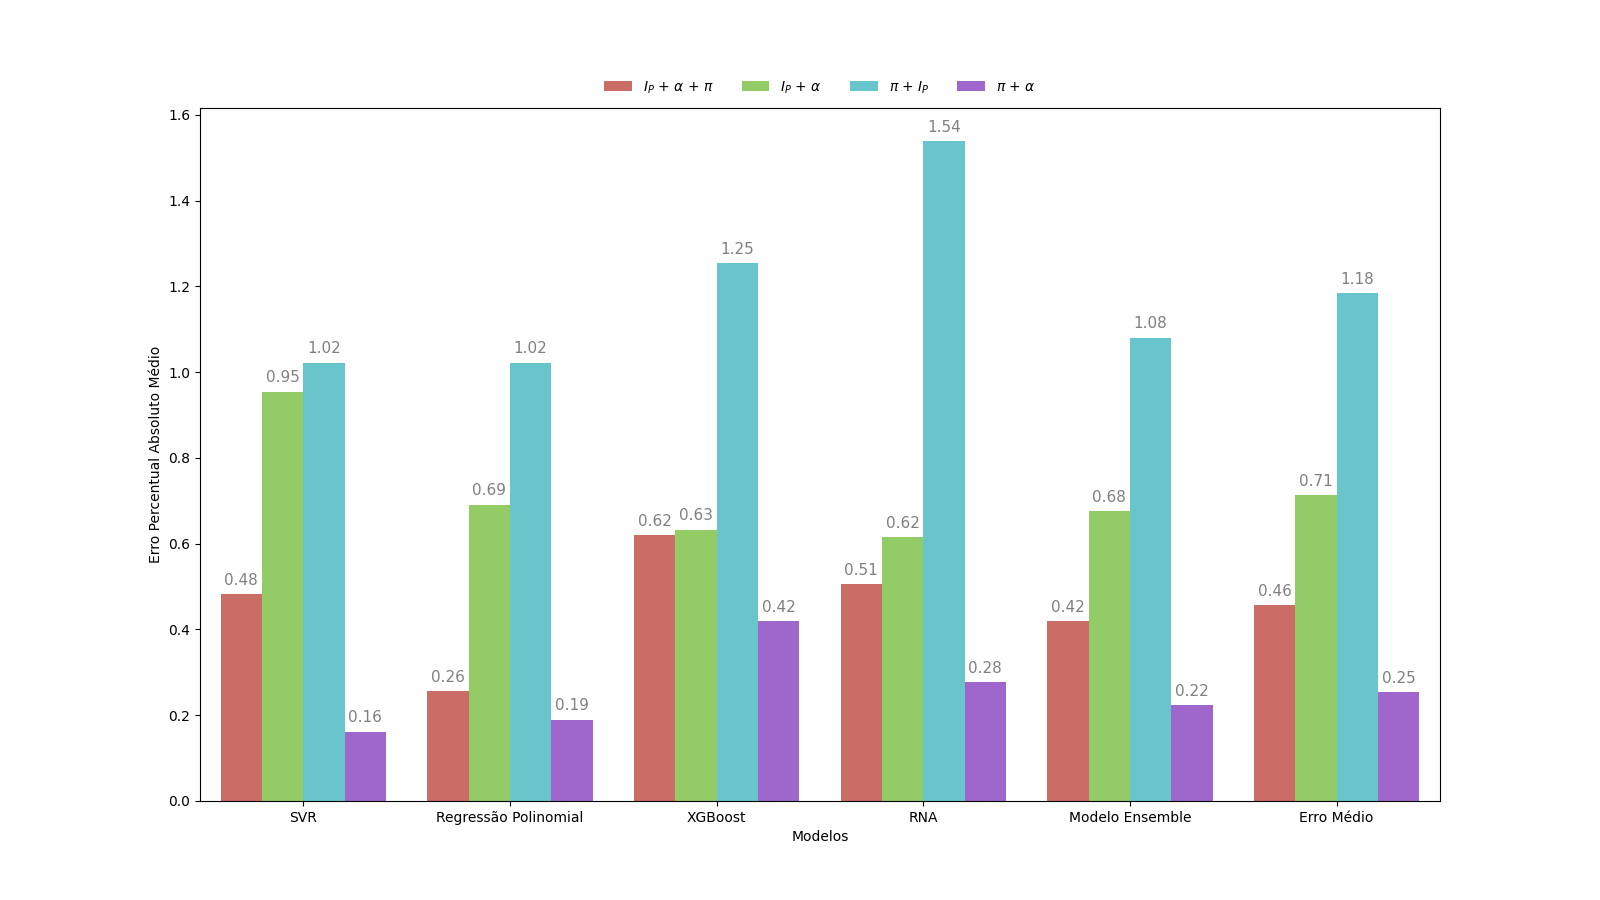
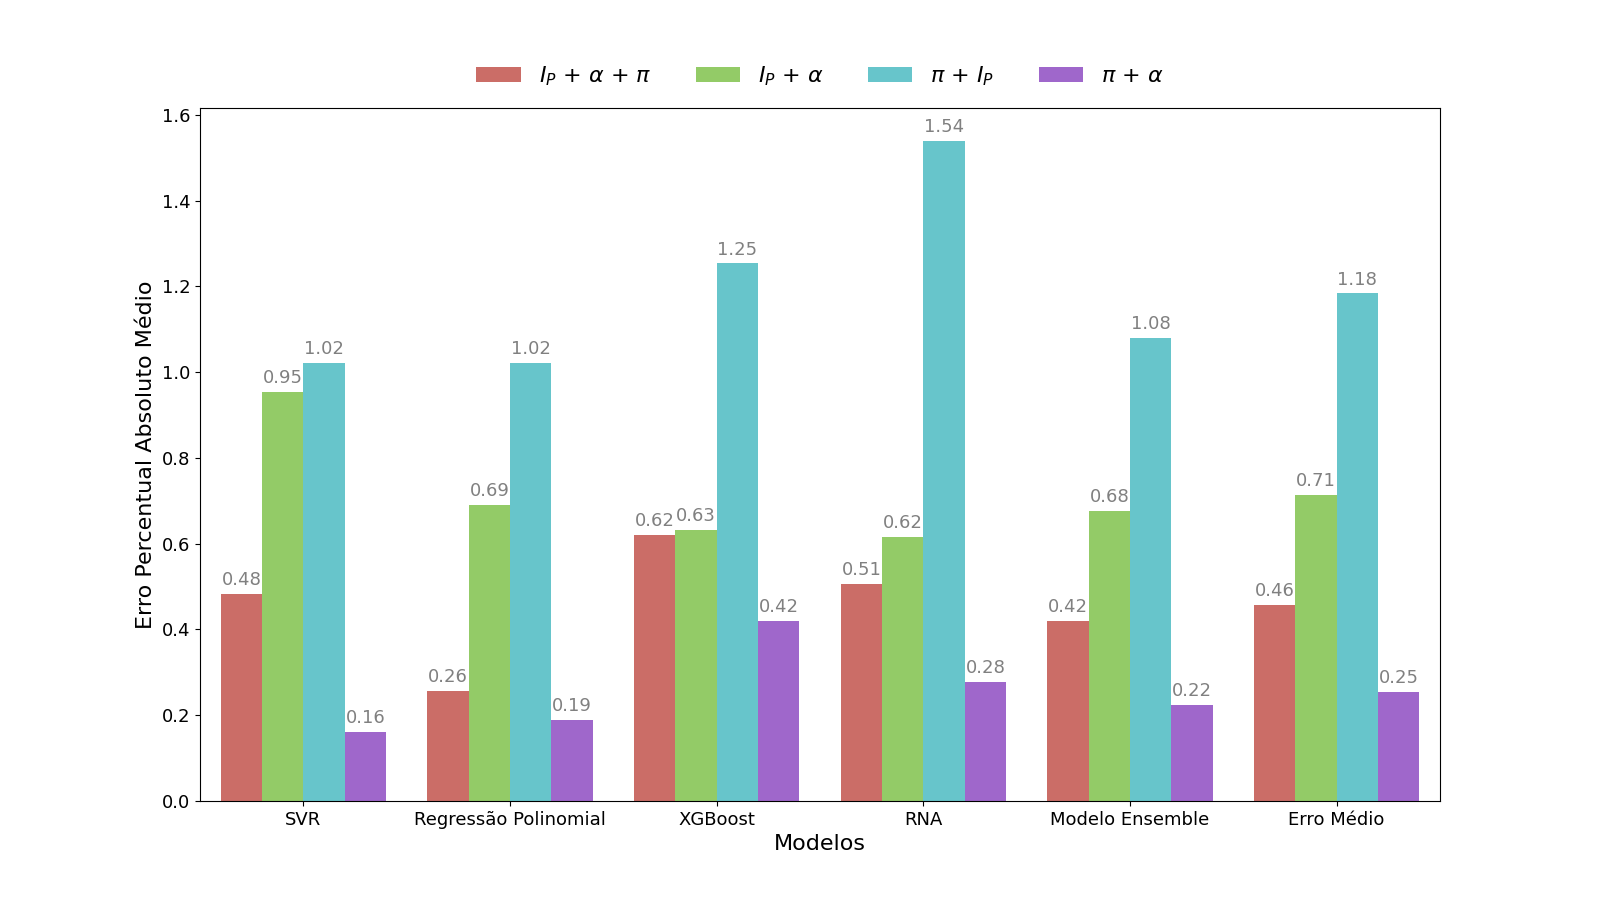
changed the create shape graphs

diff --git a/src/utils/evaluation.py b/src/utils/evaluation.py
@@ -352,6 +352,9 @@ def create_graph_shap(
     figsize=(16, 9),
     title="Importância de Propriedades via SHAP",
     show_mean_error=True,
+    tick_fontsize=13,
+    label_fontsize=16,
+    legend_fontsize=16,
 ):
     """
     Create a barplot for the SHAP feature importance of different models.
@@ -444,8 +447,15 @@ def create_graph_shap(
         palette="hls",
     )
     ax.set_title(title)
-    ax.set_xlabel("Modelos")
-    ax.set_ylabel("Importância Percentual Relativa de Propriedades")
+    ax.set_xlabel("Modelos", fontsize=label_fontsize)
+    ax.set_ylabel(
+        "Importância Percentual Relativa de Propriedades",
+        fontsize=label_fontsize,
+    )
+
+    ax.tick_params(axis="both", labelsize=tick_fontsize)
+
+    sns.move_legend(ax, fontsize=legend_fontsize)
 
     if not os.path.exists(path_to_save):
         os.mkdir(path_to_save)
